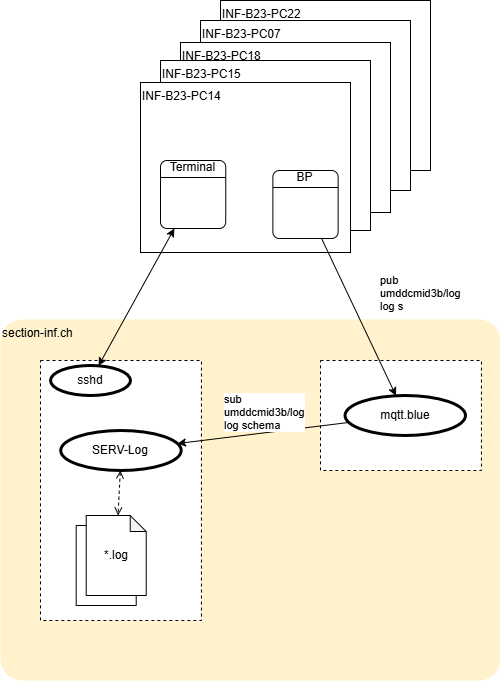
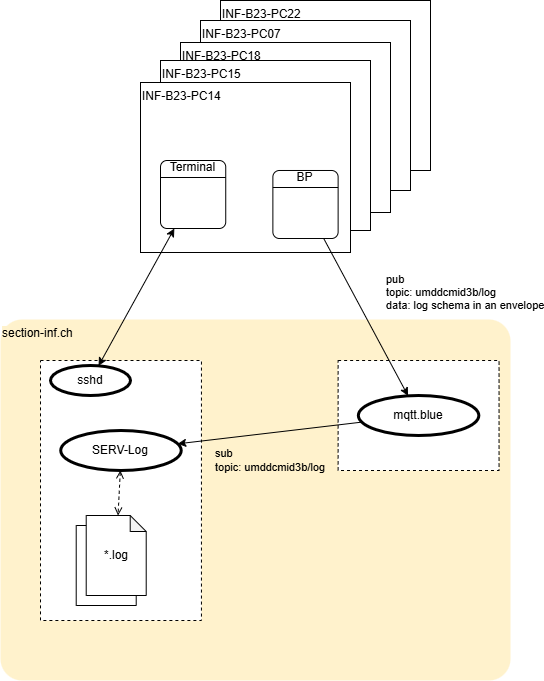
chore(serv-log): Ajouter le lien sur le bon manuel

diff --git a/Carnet de voyage.md b/Carnet de voyage.md
@@ -263,7 +263,7 @@ Nous allons prendre un peu de temps pour nous mettre à niveau
 - [ ] Explications sur le hosting de SERV-Time: [ici](https://github.com/ETML-INF/UMDD/blob/develop/doc/deployments/SERV-Time.md)
 - [ ] Le serveur de backup reste disponible sur l'infra d'Albert. (Interface de contrôle [ici](https://mqtt.blue.xlan.ch/))
 - [ ] Je change l'heure sur l'interface de contrôle, tout le monde "suit"
-- [ ] Explications sur le hosting de SERV-Log: [ici]()
+- [ ] Explications sur le hosting de SERV-Log: [ici](https://github.com/ETML-INF/UMDD/blob/develop/doc/deployments/SERV-Time.md)
 - [ ] J'accélère le temps, les messages de log d'ouverture/fermeture défilent
 
 Dès qu'on a vu passer un log d'ouverture et un de fermeture de votre BP, vous passez en projet.
